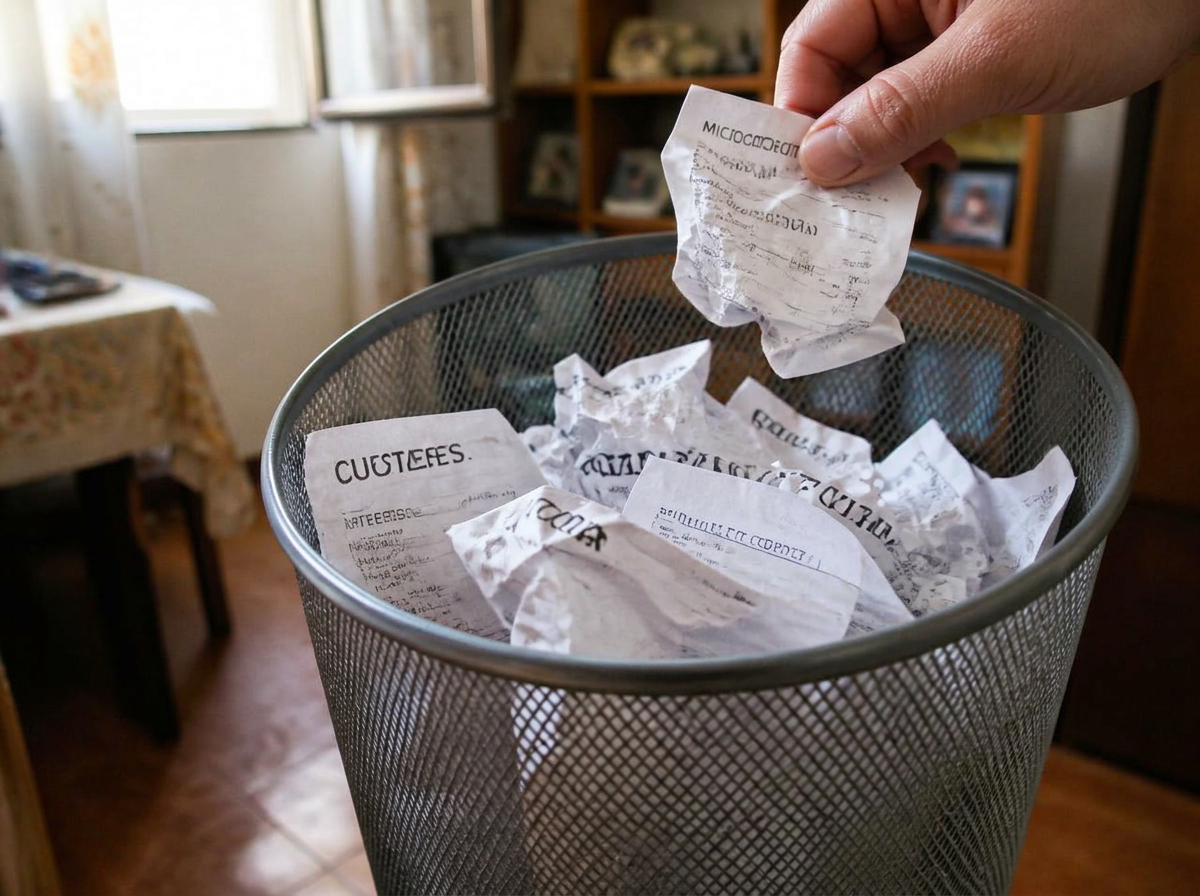
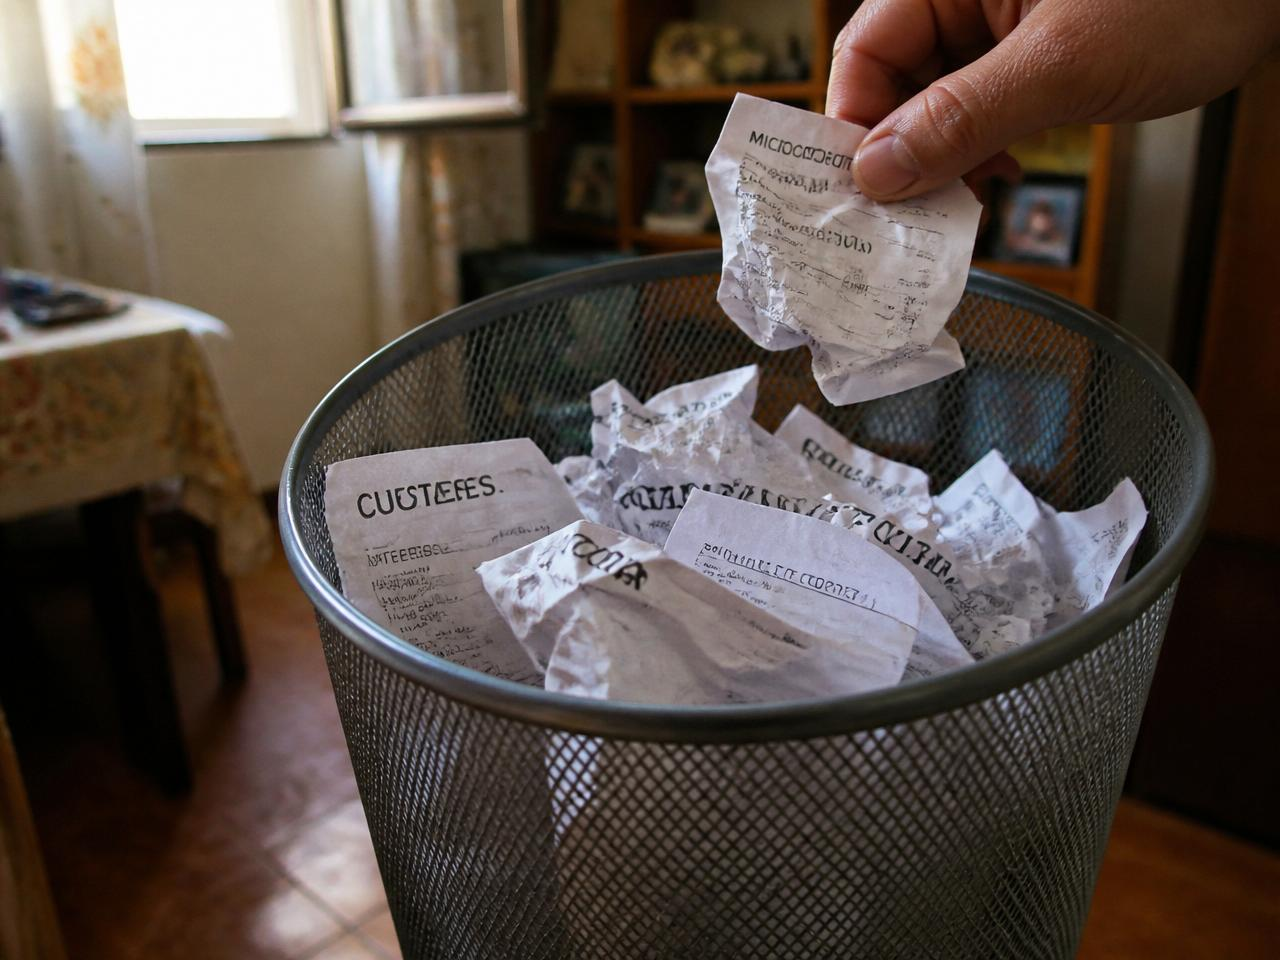
Reverted to commit 0011cb3696c847487e81e7ab4773f07a1bddd312

diff --git a/supabase/functions/generate-daily-posts/index.ts b/supabase/functions/generate-daily-posts/index.ts
@@ -525,7 +525,7 @@ async function generateAndUploadHero(
   category: string,
 ): Promise<string | null> {
   try {
-    const prompt = `Fotografía editorial hiperrealista, estilo fotoperiodismo premium y sobrio, para un artículo sobre "${title}" (tema: ${category}, finanzas personales y deudas en España). ILUMINACIÓN OBLIGATORIA: luz diurna suave y difusa (día nublado o interior amplio con ventana grande), temperatura de color neutra 5200-5600K, exposición equilibrada en toda la escena, sin zonas quemadas ni negros aplastados, sombras muy suaves. Balance de blancos completamente neutro, tonos naturales y fieles a la realidad. PROHIBIDO explícitamente: golden hour, luz dorada/naranja/amarillenta, hora azul, atardecer, amanecer, filtro sepia, dominante cálida, tinte ámbar, claroscuro, chiaroscuro, iluminación dramática, contraste alto, luz lateral dura, luz de contra, rayos de sol atravesando la escena, callejones oscuros, paredes de ladrillo con sombras marcadas, ambiente cinematográfico oscuro, look "moody", estética Instagram estilizada. Composición limpia, natural y documental, sin texto, sin logos, sin marcas de agua, sin collage. Escena humana o documental concreta española (viviendas, oficinas, calles diurnas normales) con luz plana y realista.`;
+    const prompt = `Fotografía editorial hiperrealista, estilo fotoperiodismo premium, para un artículo sobre "${title}" (tema: ${category}, finanzas personales y deudas en España). Balance de blancos neutro y realista, luz diurna de interior o exterior con temperatura de color neutra (5000-5500K), tonos naturales y fieles a la realidad. Evita explícitamente: filtro amarillento, dominante cálida, tinte dorado, golden hour, luz naranja, ambiente sepia, look Instagram estilizado. Composición cinematográfica sobria, sin texto, sin logos, sin marcas de agua, sin collage. Escena humana o documental concreta y evocadora, no genérica.`;
     const res = await fetch("https://ai.gateway.lovable.dev/v1/chat/completions", {
       method: "POST",
       headers: {

diff --git a/src/integrations/supabase/types.ts b/src/integrations/supabase/types.ts
@@ -95,7 +95,6 @@ export type Database = {
           faq: Json
           hero_alt: string | null
           hero_image: string | null
-          hero_regenerated_at: string | null
           id: string
           key_takeaways: string[] | null
           keywords: string[] | null
@@ -120,7 +119,6 @@ export type Database = {
           faq?: Json
           hero_alt?: string | null
           hero_image?: string | null
-          hero_regenerated_at?: string | null
           id?: string
           key_takeaways?: string[] | null
           keywords?: string[] | null
@@ -145,7 +143,6 @@ export type Database = {
           faq?: Json
           hero_alt?: string | null
           hero_image?: string | null
-          hero_regenerated_at?: string | null
           id?: string
           key_takeaways?: string[] | null
           keywords?: string[] | null
